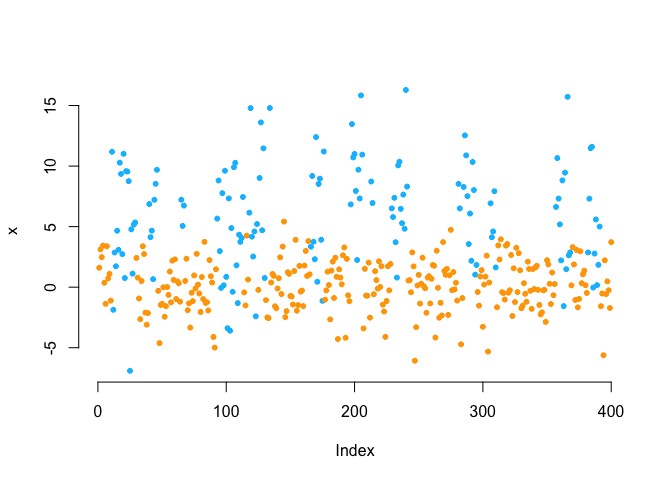
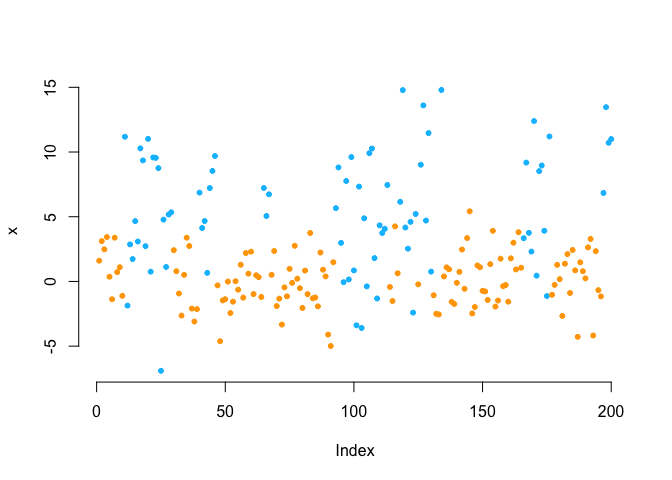
Updating the readme to more data

diff --git a/README.md b/README.md
@@ -61,16 +61,17 @@ Gamma = matrix(c(0.95, 0.05, 0.15, 0.85), nrow = 2, byrow = TRUE)
 delta = solve(t(diag(2)-Gamma+1), rep(1,2)) # stationary HMM
 
 # simulation
+n = 10000 # rather large
 set.seed(123)
-s = x = rep(NA, 2000)
+s = x = rep(NA, n)
 s[1] = sample(1:2, 1, prob = delta)
 x[1] = stats::rnorm(1, mu[s[1]], sigma[s[1]])
-for(t in 2:2000){
+for(t in 2:n){
   s[t] = sample(1:2, 1, prob = Gamma[s[t-1],])
   x[t] = stats::rnorm(1, mu[s[t]], sigma[s[t]])
 }
 
-plot(x[1:400], bty = "n", pch = 20, ylab = "x", col = c("orange", "deepskyblue")[s[1:400]])
+plot(x[1:200], bty = "n", pch = 20, ylab = "x", col = c("orange", "deepskyblue")[s[1:200]])
 ```
 
 <img src="man/figures/README-data-1.png" width="75%" style="display: block; margin: auto;" />
@@ -98,14 +99,14 @@ mllk = function(theta.star, x){
 #### Fitting an HMM to the data
 
 ``` r
-theta.star = c(-2,-2,0,5,log(2),log(3)) # initial transformed parameters
+theta.star = c(-1,-1,1,4,log(1),log(3)) # initial transformed parameters: not chosen too well
 s = Sys.time()
 mod = stats::nlm(mllk, theta.star, x = x)
 Sys.time()-s
-#> Time difference of 0.07205105 secs
+#> Time difference of 0.133817 secs
 ```
 
-Really fast!
+Really fast for 10.000 data points!
 
 #### Visualizing results
 
